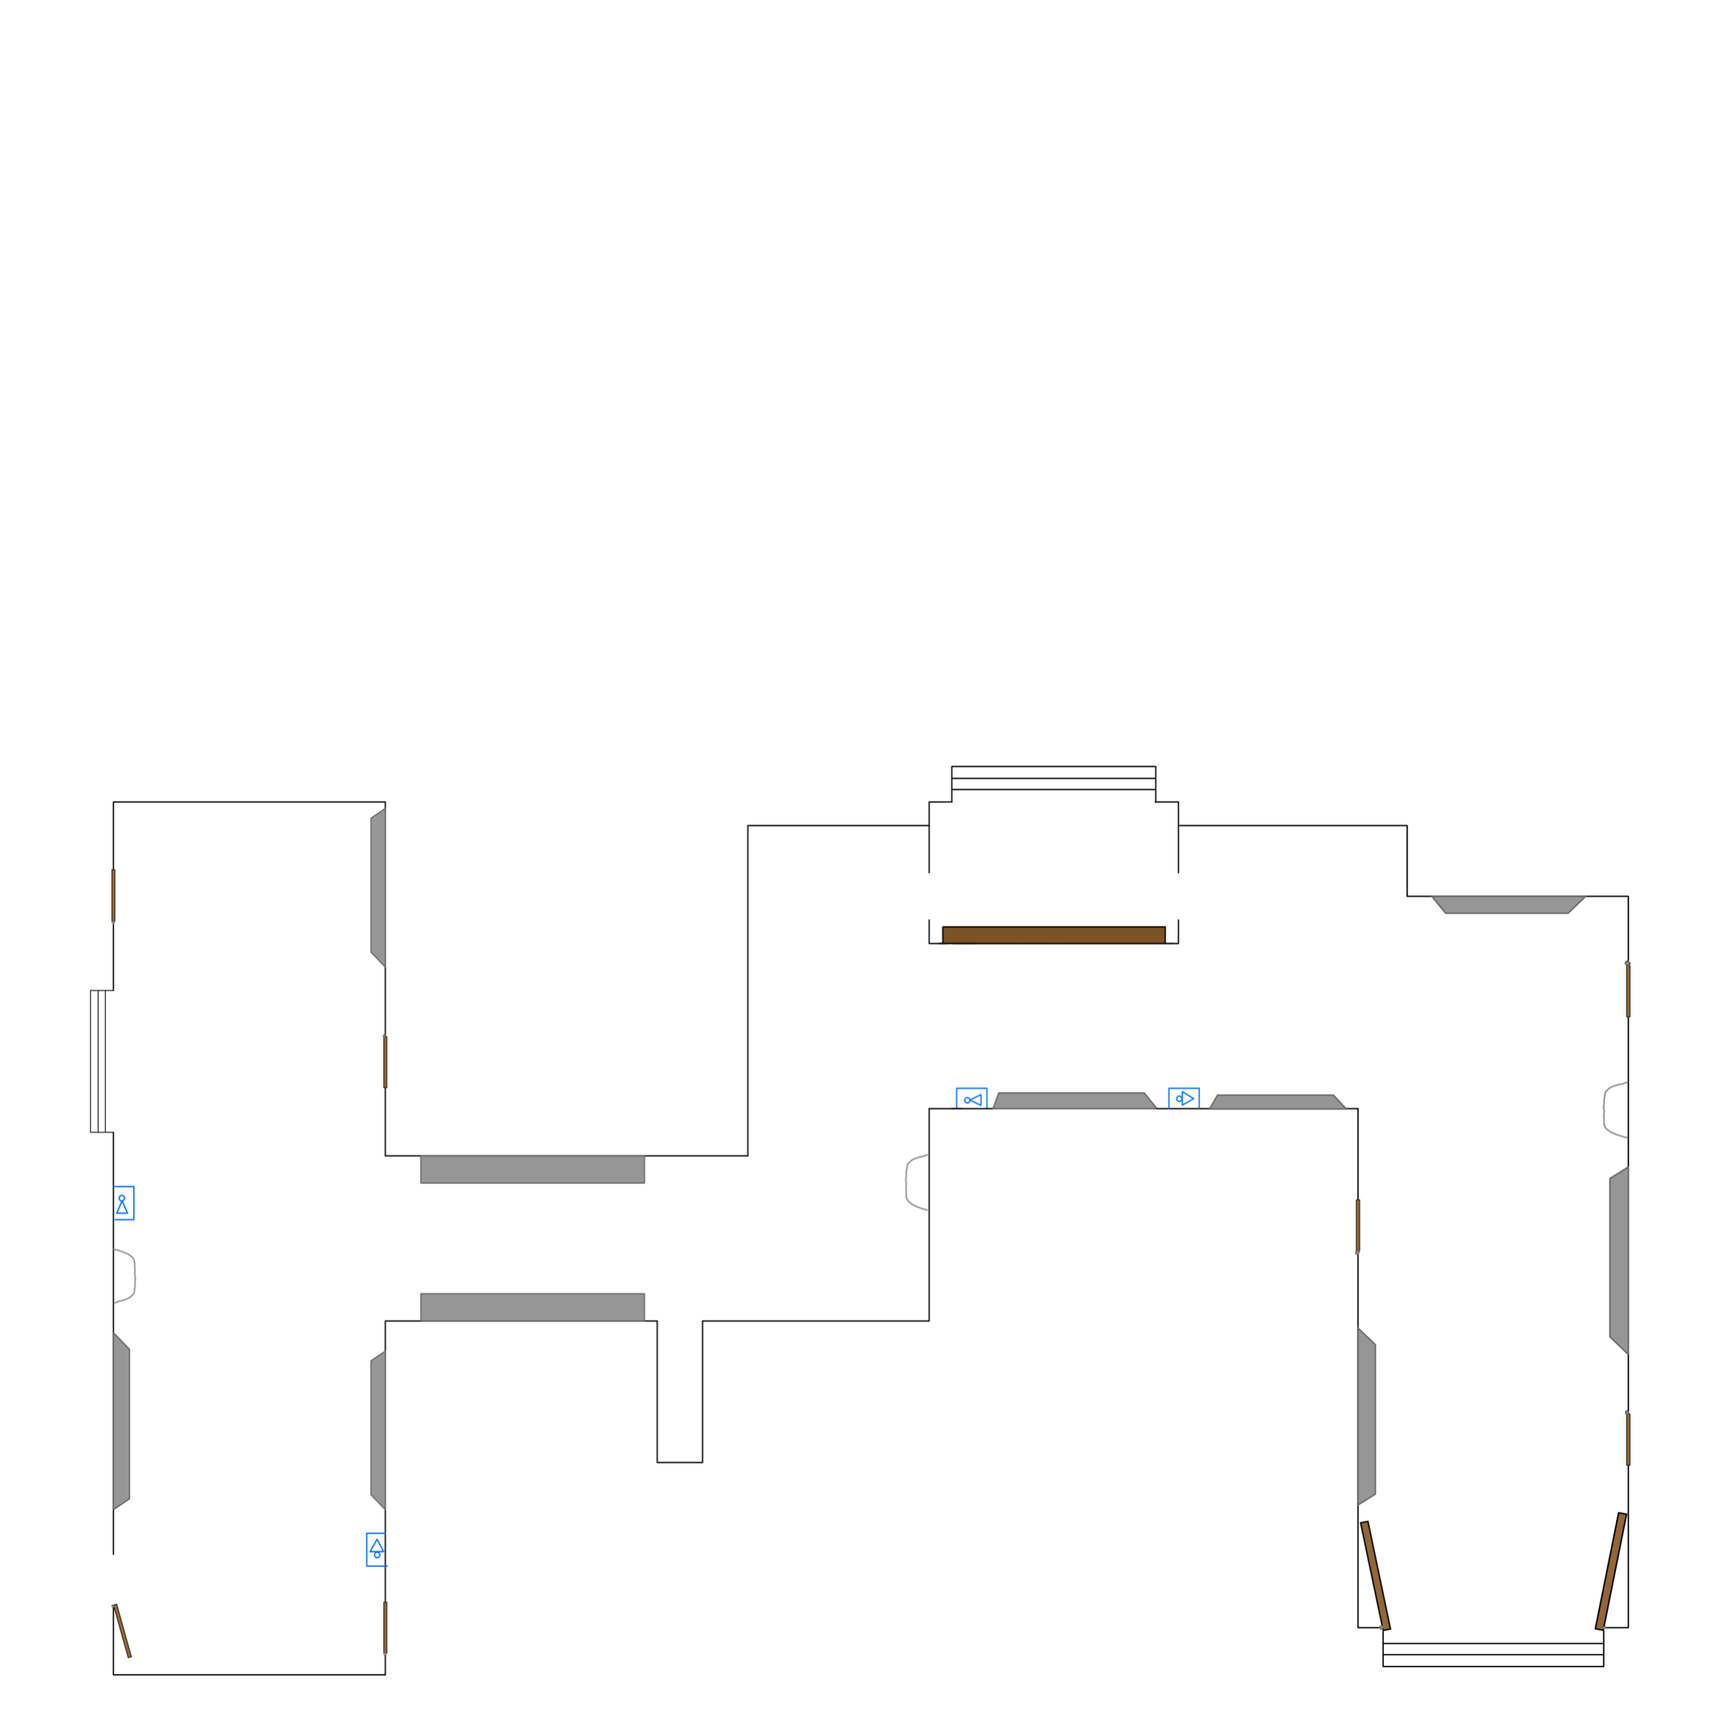
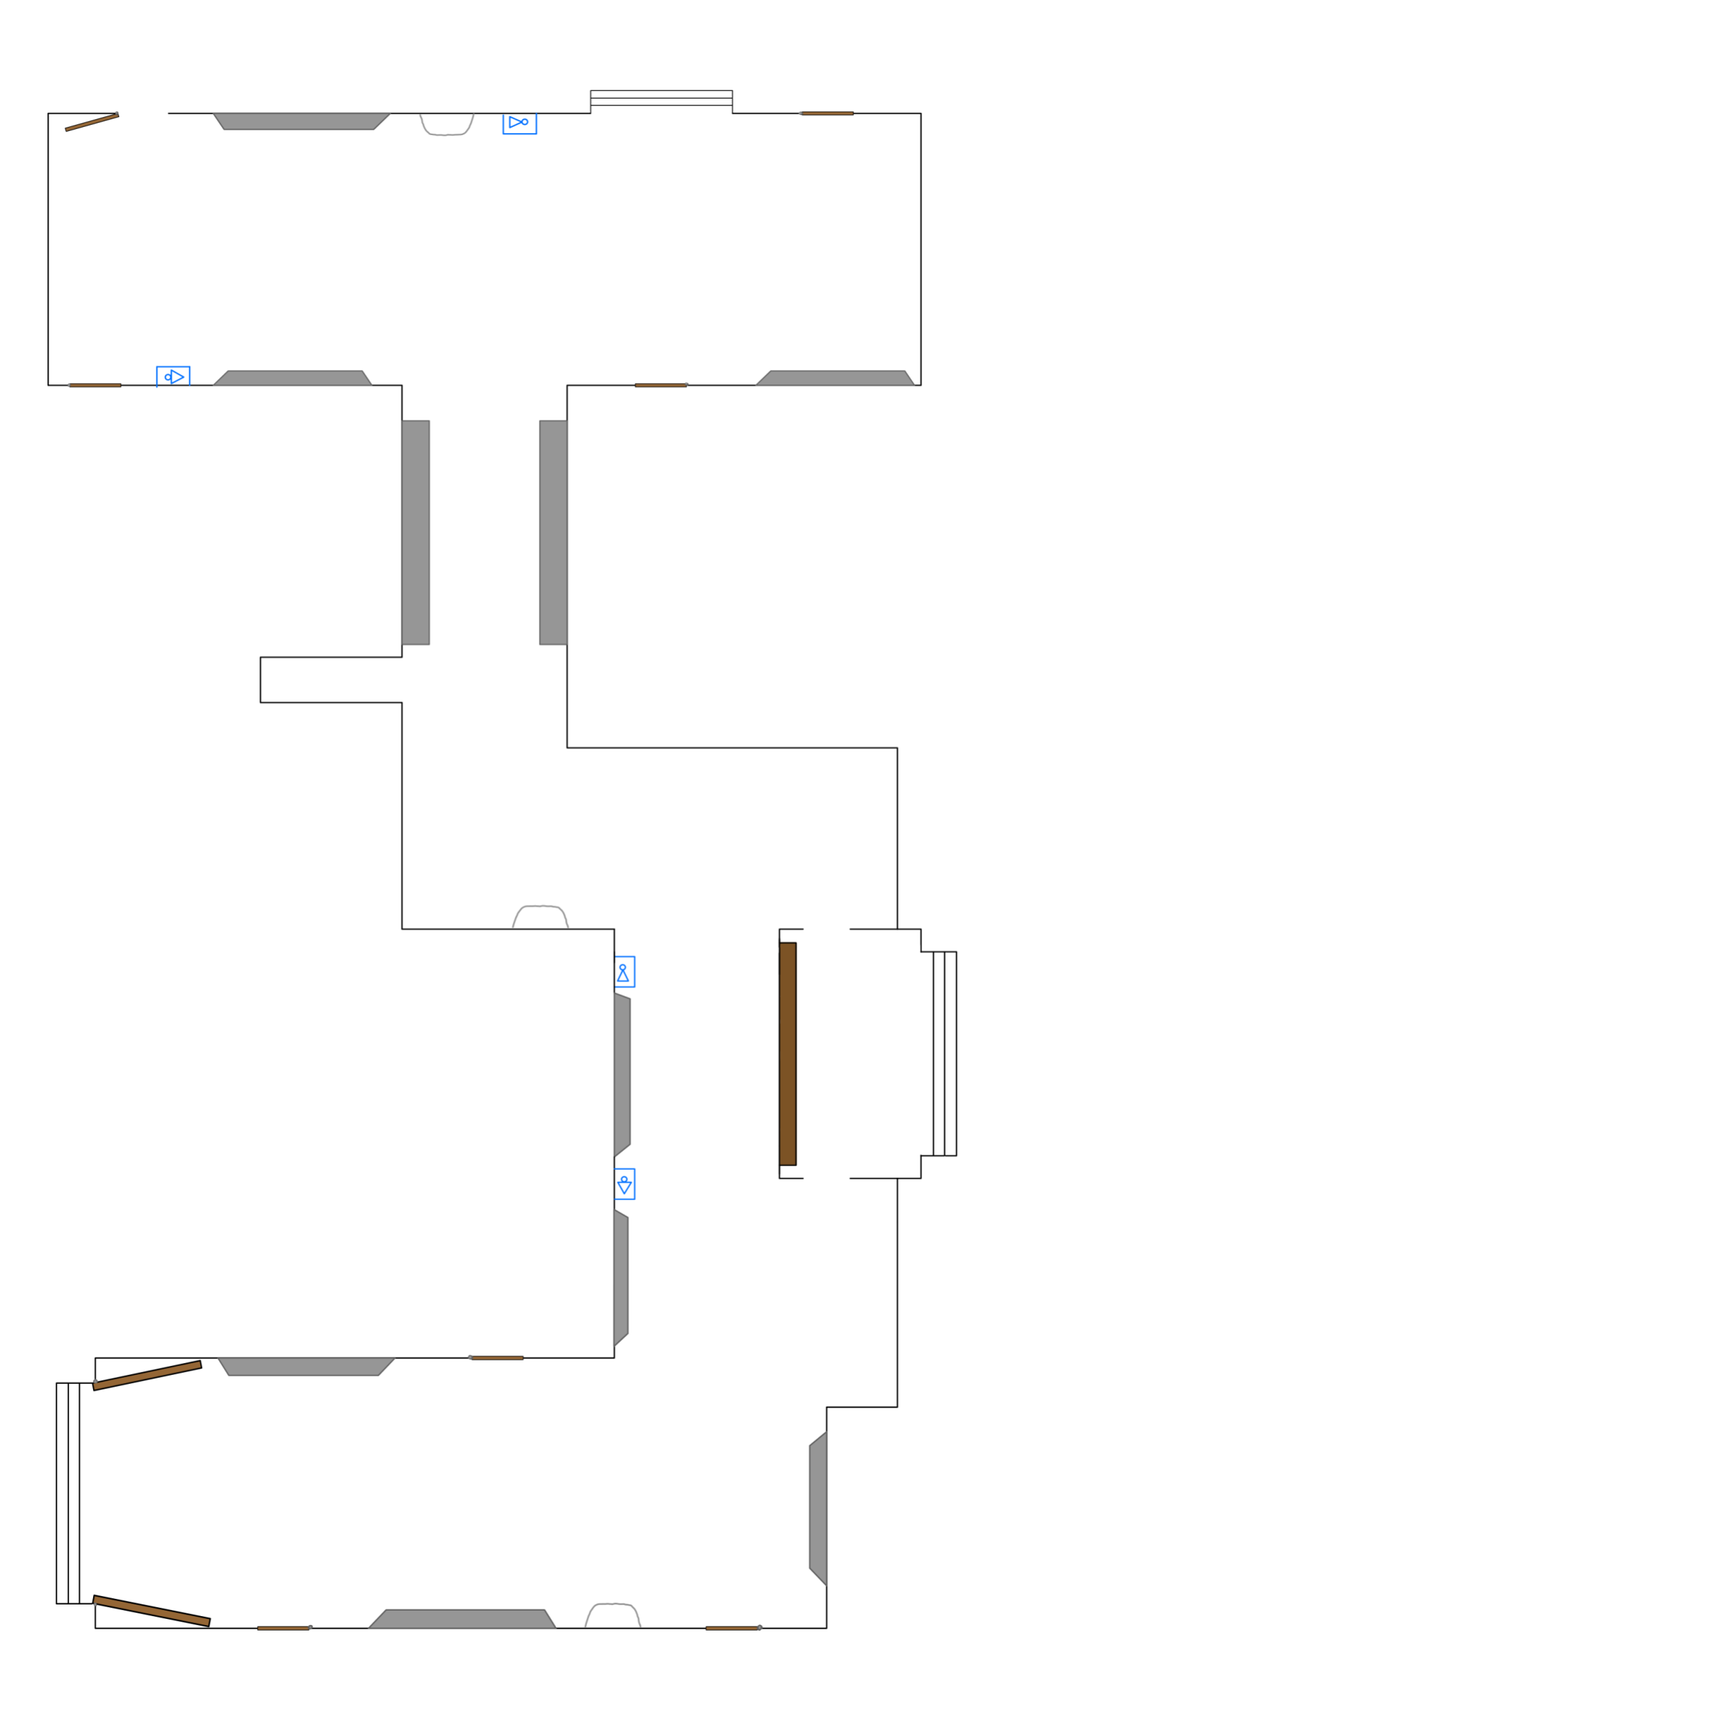
regewr

diff --git a/KCI Simulator/src/kci/simulator/KCISimulator.java b/KCI Simulator/src/kci/simulator/KCISimulator.java
@@ -9,30 +9,25 @@ public class KCISimulator {
 
     public static JFrame frame;
     public static JPanel mapPanel, westMenu, eastMenu;
-    public static JLabel character, nameLabel, rodney, interact, mapImage;
+    public static JLabel character, rodney, interact;
     public static JProgressBar staminaBar;
     public static JLayeredPane layeredPane;
 
-    public static int characterX, characterY, stamina = 100, tileSize, mapWidth, mapHeight, mapX, mapY;
-    public static double screenX, screenY;
+    public static int stamina = 100, tileSize, mapWidth, mapHeight;
     public static boolean inDialogue = false;
     
-    public static Map thirdFloor, secondFloor;
-    public static Classroom compSci, office, library, bathroom;
+    public static Map thirdFloor;
 
     public static Set<Integer> pressedKeys = new HashSet<>();
     
-    public static ImageIcon walkingW , walkingS, walkingA, walkingD, 
+    public static ImageIcon walkingW, walkingS, walkingA, walkingD, 
             runningW, runningS, runningA, runningD,
             facingW, facingS, facingA, facingD;
     
-    public static ArrayList<String> temp = new ArrayList<>();
     public static NPC janicas = new NPC(300, 300, "janicas", new JLabel());
 
     public static void main(String[] args) {
         Dimension screenSize = Toolkit.getDefaultToolkit().getScreenSize();
-        screenX = screenSize.getWidth();
-        screenY = screenSize.getHeight();
 
         frame = new JFrame("KCI Simulator");
         frame.setDefaultCloseOperation(JFrame.EXIT_ON_CLOSE);
@@ -42,37 +37,30 @@ public class KCISimulator {
         frame.setLayout(new BorderLayout());
 
         layeredPane = new JLayeredPane();
-        tileSize = (int)screenY / 10;
+        tileSize = (int)screenSize.getHeight() / 10;
         mapWidth = tileSize * 10;
         mapHeight = tileSize * 10;
-        characterX = (mapWidth/2)-(tileSize/2);
-        characterY = (mapHeight/2)-(tileSize/2);
-        mapX = -4*tileSize;
-        mapY = -50*tileSize;
         layeredPane.setPreferredSize(new Dimension(mapWidth, mapHeight));
         frame.add(layeredPane, BorderLayout.CENTER);
 
         westMenu = new JPanel();
-        westMenu.setPreferredSize(new Dimension((int)(screenX-mapWidth)/2, 100));
+        westMenu.setPreferredSize(new Dimension((int)(screenSize.getWidth() - mapWidth) / 2, 100));
         westMenu.setLayout(new BoxLayout(westMenu, BoxLayout.Y_AXIS));
         westMenu.setBackground(Color.black);
         frame.add(westMenu, BorderLayout.WEST);
         
         eastMenu = new JPanel();
-        eastMenu.setPreferredSize(new Dimension((int)(screenX-mapWidth)/2, 100));
+        eastMenu.setPreferredSize(new Dimension((int)(screenSize.getWidth() - mapWidth) / 2, 100));
         eastMenu.setLayout(new BoxLayout(eastMenu, BoxLayout.Y_AXIS));
         eastMenu.setBackground(Color.black);
         frame.add(eastMenu, BorderLayout.EAST);
         
-        nameLabel = new JLabel("Rodney the Raider");
-        nameLabel.setFont(new java.awt.Font("Arial", Font.BOLD, 24));
-        nameLabel.setForeground(Color.red);
-        nameLabel.setAlignmentX(Component.CENTER_ALIGNMENT);
-        
-        rodney = new JLabel(new ImageIcon(new ImageIcon("rodneycropped.png").getImage().getScaledInstance(tileSize, tileSize, Image.SCALE_SMOOTH)));
+        rodney = new JLabel(new ImageIcon(new ImageIcon("rodneycropped.png")
+                .getImage().getScaledInstance(tileSize, tileSize, Image.SCALE_SMOOTH)));
         rodney.setAlignmentX(Component.CENTER_ALIGNMENT);
         
-        janicas.setImage(new JLabel(new ImageIcon(new ImageIcon("janicas.png").getImage().getScaledInstance(tileSize, tileSize, Image.SCALE_DEFAULT))));
+        janicas.setImage(new JLabel(new ImageIcon(new ImageIcon("janicas.png")
+                .getImage().getScaledInstance(tileSize, tileSize, Image.SCALE_DEFAULT))));
         janicas.getImage().setBounds(janicas.getNpcX(), janicas.getNpcY(), tileSize, tileSize);
         layeredPane.add(janicas.getImage(), Integer.valueOf(3));
         
@@ -81,36 +69,13 @@ public class KCISimulator {
         staminaBar.setBackground(Color.gray);
         staminaBar.setAlignmentX(Component.CENTER_ALIGNMENT);
         
-        westMenu.add(nameLabel);
         westMenu.add(rodney);
         westMenu.add(staminaBar);
         
         fillMaps();
         
-        thirdFloor.getMapImage().setBounds(thirdFloor.getCharacterX(), thirdFloor.getCharacterY(), (int)(tileSize*67.5), (int)(tileSize*67.5));
+        thirdFloor.getMapImage().setBounds(thirdFloor.getCharacterX(), thirdFloor.getCharacterY(), tileSize*40, tileSize*40);
         layeredPane.add(thirdFloor.getMapImage(), Integer.valueOf(0));
-
-//        mapPanel.setLayout(new GridLayout(7, 7));
-//        mapPanel.setBounds(0, 0, mapWidth, mapHeight);
-//
-//        int[][] mapMatrix = new int[7][7];
-//        for (int i = 0; i < mapMatrix.length; i++) {
-//            for (int j = 0; j < mapMatrix[i].length; j++) {
-//                ImageIcon pic;
-//                if (i == 0 || i == 6) {
-//                    mapMatrix[i][j] = 0;
-//                    pic = new ImageIcon(new ImageIcon("smoke.jpg").getImage().getScaledInstance(tileSize, tileSize, Image.SCALE_DEFAULT));
-//                } else if (i == 1 || i == 5) {
-//                    mapMatrix[i][j] = 1;
-//                    pic = new ImageIcon(new ImageIcon("wall.jpeg").getImage().getScaledInstance(tileSize, tileSize, Image.SCALE_DEFAULT));
-//                } else {
-//                    mapMatrix[i][j] = 2;
-//                    pic = new ImageIcon(new ImageIcon("floor.jpg").getImage().getScaledInstance(tileSize, tileSize, Image.SCALE_DEFAULT));
-//                }
-//                JLabel label = new JLabel(pic);
-//                mapPanel.add(label);
-//            }
-//        }
 
         facingW = new ImageIcon(new ImageIcon("standfwd.gif").getImage().getScaledInstance(tileSize, tileSize, Image.SCALE_DEFAULT));
         facingS = new ImageIcon(new ImageIcon("standback.gif").getImage().getScaledInstance(tileSize, tileSize, Image.SCALE_DEFAULT));
@@ -118,7 +83,7 @@ public class KCISimulator {
         facingD = new ImageIcon(new ImageIcon("standright.gif").getImage().getScaledInstance(tileSize, tileSize, Image.SCALE_DEFAULT));
 
         character = new JLabel(facingW);
-        character.setBounds(characterX, characterY, tileSize, tileSize);
+        character.setBounds((mapWidth/2)-(tileSize/2), (mapHeight/2)-(tileSize/2), tileSize, tileSize);
         character.setDoubleBuffered(true);
         layeredPane.add(character, Integer.valueOf(1));
 
@@ -126,10 +91,8 @@ public class KCISimulator {
             public void keyPressed(KeyEvent e) {
                 pressedKeys.add(e.getKeyCode());
             }
-
             public void keyReleased(KeyEvent e) {
                 pressedKeys.remove(e.getKeyCode());
-
                 switch (e.getKeyCode()) {
                     case KeyEvent.VK_W:
                     case KeyEvent.VK_UP:
@@ -163,14 +126,17 @@ public class KCISimulator {
         interact = new JLabel("Press [E] to interact. ");
         interact.setFont(new java.awt.Font("Arial", Font.BOLD, 24));
         interact.setForeground(Color.red);
-        interact.setBounds((mapWidth/2)-100, (int)(mapHeight*0.8), 300, 24);
+        interact.setBounds((mapWidth / 2) - 100, (int)(mapHeight * 0.8), 300, 24);
         layeredPane.add(interact, Integer.valueOf(2));
         interact.setVisible(false);
         
         javax.swing.Timer timer = new javax.swing.Timer(16, new ActionListener() {
             public void actionPerformed(ActionEvent e) {
-                if (characterX >= janicas.getNpcX() - 100 && characterX <= janicas.getNpcX() + 100 &&
-                    characterY >= janicas.getNpcY() - 100 && characterY <= janicas.getNpcY() + 100) {
+                int charX = thirdFloor.getCharacterX();
+                int charY = thirdFloor.getCharacterY();
+                
+                if (charX >= janicas.getNpcX() - 100 && charX <= janicas.getNpcX() + 100 &&
+                    charY >= janicas.getNpcY() - 100 && charY <= janicas.getNpcY() + 100) {
                     interact.setVisible(true);
                     if (pressedKeys.contains(KeyEvent.VK_E)) {
                         inDialogue = true;
@@ -181,8 +147,6 @@ public class KCISimulator {
                 
                 if (inDialogue && pressedKeys.contains(KeyEvent.VK_ESCAPE)) {
                     inDialogue = false;
-                } else if (pressedKeys.contains(KeyEvent.VK_ESCAPE)) {
-                    
                 }
                 
                 if (!inDialogue)
@@ -201,7 +165,8 @@ public class KCISimulator {
     public static void movement() {
         boolean sprinting = pressedKeys.contains(KeyEvent.VK_SHIFT);
         boolean moving = false;
-
+        int dx = 0, dy = 0;
+        
         if (stamina == 0) {
             sprinting = false;
         }
@@ -209,63 +174,66 @@ public class KCISimulator {
         int speed = sprinting ? 7 : 4;
 
         if (pressedKeys.contains(KeyEvent.VK_W) || pressedKeys.contains(KeyEvent.VK_UP)) {
-//            characterY -= speed;
-            thirdFloor.setCharacterY(thirdFloor.getCharacterY()+speed);
-            janicas.setNpcY(janicas.getNpcY() + speed);
+            dy += speed;
             character.setIcon(sprinting ? runningW : walkingW);
             moving = true;
         } 
         if (pressedKeys.contains(KeyEvent.VK_S) || pressedKeys.contains(KeyEvent.VK_DOWN)) {
-//            characterY += speed;
-            thirdFloor.setCharacterY(thirdFloor.getCharacterY()-speed);
-            janicas.setNpcY(janicas.getNpcY() - speed);
+            dy -= speed;
             character.setIcon(sprinting ? runningS : walkingS);
             moving = true;
         }
         if (pressedKeys.contains(KeyEvent.VK_A) || pressedKeys.contains(KeyEvent.VK_LEFT)) {
-//            characterX -= speed;
-            thirdFloor.setCharacterX(thirdFloor.getCharacterX()+speed);
-            janicas.setNpcX(janicas.getNpcX() + speed);
+            dx += speed;
             character.setIcon(sprinting ? runningA : walkingA);
             moving = true;
         }
         if (pressedKeys.contains(KeyEvent.VK_D) || pressedKeys.contains(KeyEvent.VK_RIGHT)) {
-//            characterX += speed;
-            thirdFloor.setCharacterX(thirdFloor.getCharacterX()-speed);
-            janicas.setNpcX(janicas.getNpcX() - speed);
+            dx -= speed;
             character.setIcon(sprinting ? runningD : walkingD);
             moving = true;
         }
 
         if (pressedKeys.contains(KeyEvent.VK_SHIFT) && moving) {
             stamina -= 1;
-            if (stamina <= 0) stamina = 0;
+            if (stamina < 0) stamina = 0;
         } else {
             if (stamina < 100) stamina += 1;
         }
+        
+        int charScreenX = (mapWidth / 2) - (tileSize / 2);
+        int charScreenY = (mapHeight / 2) - (tileSize / 2);
 
-//        if (characterY < 0 + 2*tileSize) characterY = 2*tileSize;
-//        if (characterY > mapHeight - 3*tileSize) characterY = mapHeight - 3*tileSize;
-//        if (characterX < 0) characterX = 0;
-//        if (characterX > mapWidth - tileSize) characterX = mapWidth - tileSize;
+        int newMapX = thirdFloor.getCharacterX() + dx;
+        int newMapY = thirdFloor.getCharacterY() + dy;
 
-        janicas.getImage().setLocation(janicas.getNpcX(), janicas.getNpcY());
-        thirdFloor.getMapImage().setLocation(thirdFloor.getCharacterX(), thirdFloor.getCharacterY());
-//        character.setLocation(characterX, characterY);
+        int characterMapX = -newMapX + charScreenX;
+        int characterMapY = -newMapY + charScreenY;
+
+        if (canMoveTo(characterMapX, characterMapY, tileSize, tileSize, thirdFloor)) {
+            thirdFloor.setCharacterX(newMapX);
+            thirdFloor.setCharacterY(newMapY);
+            thirdFloor.getMapImage().setLocation(newMapX, newMapY);
+        }
+
+        System.out.println("x: " + thirdFloor.getCharacterX() + "\ny: " + thirdFloor.getCharacterY());
+        
         staminaBar.setValue(stamina);
     }
     
     public static void fillMaps() {
-         thirdFloor = new Map(mapX, mapY, new JLabel(new ImageIcon(new ImageIcon("3rdfloorsketch.png").getImage().getScaledInstance((int)(tileSize), (int)(tileSize), Image.SCALE_DEFAULT))));
+//         thirdFloor = new Map(mapX, mapY, new JLabel(new ImageIcon(new ImageIcon("3rdfloorsketch.png").getImage().getScaledInstance((int)(tileSize), (int)(tileSize), Image.SCALE_DEFAULT))));
+//        
+////        //class exit
+////        compSci.addDoors(, );
+//        
+//        //janicas
+//        compSci.addNpcs(0,0 ,"Mr. Janicas" , new JLabel(new ImageIcon(new ImageIcon("janicas.png").getImage().getScaledInstance(tileSize, tileSize, Image.SCALE_DEFAULT))));
         
-//        //class exit
-//        compSci.addDoors(, );
+        thirdFloor = new Map(0, 0, new JLabel(new ImageIcon(new ImageIcon("3rdfloorsketch.png").getImage().getScaledInstance((int)tileSize*40, (int)tileSize*40, Image.SCALE_DEFAULT))));
         
-        //janicas
-        compSci.addNpcs(0,0 ,"Mr. Janicas" , new JLabel(new ImageIcon(new ImageIcon("janicas.png").getImage().getScaledInstance(tileSize, tileSize, Image.SCALE_DEFAULT))));
-        
-        thirdFloor = new Map(mapX, mapY, new JLabel(new ImageIcon(new ImageIcon("3rdfloorsketch.png").getImage().getScaledInstance((int)(tileSize*67.5), (int)(tileSize*67.5), Image.SCALE_DEFAULT))));
-        
+        thirdFloor.addWalkableArea(tileSize, (int)(tileSize*2.5), (int)(tileSize*20.5), (int)(tileSize*6.5));
+        thirdFloor.addWalkableArea((int)(tileSize*9.2), (int)(tileSize*8), (int)(tileSize*4.1), (int)(tileSize*12));
 //        //stairs
 //        thirdFloor.addDoors(, );
 //        thirdFloor.addDoors(, );
@@ -297,6 +265,16 @@ public class KCISimulator {
 //        secondFloor.addNpcs(, , , );
         
         
+    }
+    
+    public static boolean canMoveTo(int x, int y, int width, int height, Map map) {
+        Rectangle characterBounds = new Rectangle(x, y, width, height);
+        for (Rectangle walkableArea : map.getWalkable()) {
+            if (walkableArea.contains(characterBounds)) {
+                return true;
+            }
+        }
+        return false;
     }
     
 }

diff --git a/KCI Simulator/src/kci/simulator/Map.java b/KCI Simulator/src/kci/simulator/Map.java
@@ -12,6 +12,7 @@ public class Map {
     protected JLabel mapImage;
     protected ArrayList<NPC> npcs = new ArrayList<>();
     protected ArrayList<Door> doors = new ArrayList<>();
+    protected ArrayList<Rectangle> walkable = new ArrayList<>();
 
     public Map() {}
     
@@ -51,8 +52,8 @@ public class Map {
         npcs.add(new NPC(npcX,npcY,name,image));
     }
     
-    public void addDoors (int doorsX, int doorsY) {
-        doors.add(new Door(doorsX,doorsY));
+    public void addDoors (int doorsX, int doorsY, int next) {
+        doors.add(new Door(doorsX,doorsY,next));
     }
     
     public ArrayList<NPC> getNpcs() {
@@ -70,6 +71,16 @@ public class Map {
     public void setDoors(ArrayList<Door> doors) {
         this.doors = doors;
     }
+
+    public ArrayList<Rectangle> getWalkable() {
+        return walkable;
+    }
+
+    public void setWalkable(ArrayList<Rectangle> walkable) {
+        this.walkable = walkable;
+    }
     
-    
+    public void addWalkableArea(int x, int y, int width, int height) {
+        walkable.add(new Rectangle(x,y,width,height));
+    }
 }

diff --git a/KCI Simulator/src/kci/simulator/Door.java b/KCI Simulator/src/kci/simulator/Door.java
@@ -7,11 +7,12 @@ import java.awt.event.*;
 import java.util.*;
 
 public class Door {
-    private int doorX, doorY;
+    private int doorX, doorY, next;
 
-    public Door(int doorX, int doorY) {
+    public Door(int doorX, int doorY, int next) {
         this.doorX = doorX;
         this.doorY = doorY;
+        this.next = next;
     }
 
     public int getDoorX() {
@@ -29,6 +30,15 @@ public class Door {
     public void setDoorY(int doorY) {
         this.doorY = doorY;
     }
+
+    public int getNext() {
+        return next;
+    }
+
+    public void setNext(int next) {
+        this.next = next;
+    }
+    
     
     
 }

diff --git a/KCI Simulator/src/kci/simulator/NPC.java b/KCI Simulator/src/kci/simulator/NPC.java
@@ -51,11 +51,7 @@ public class NPC{
 
     public void setImage(JLabel image) {
         this.image = image;
-    }
-    
-    public void addDialogue(String lines) {
-        dialogue.add(lines);
-    }
+    } 
 
     public ArrayList<String> getDialogue() {
         return dialogue;
